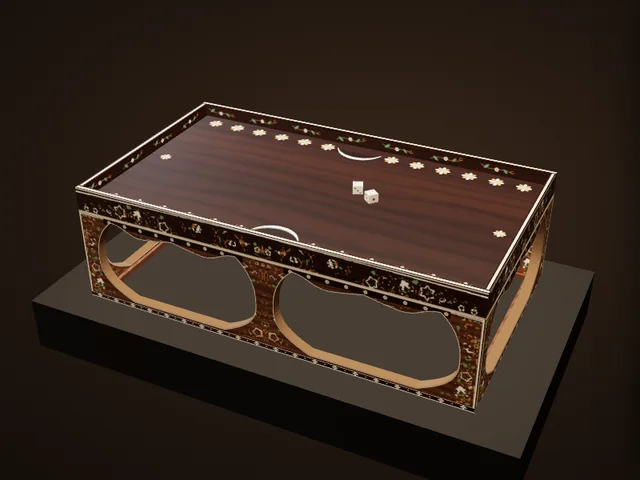
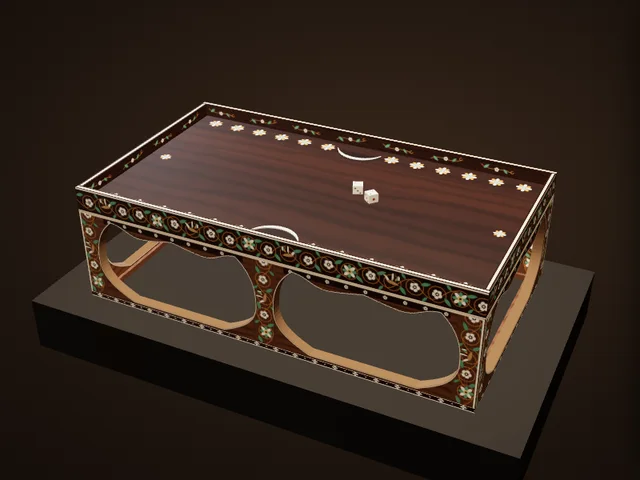
博物館：双六局の木画を描画（ベクター）に戻す（写真からの抜き出しは掠れるため不採用）
Claude-Session: https://claude.ai/code/session_01EiWRAZTxRF5M5nk5vdR2jJ

Changed region(s): [[0.125, 0.375, 0.7812, 0.8438], [0.7812, 0.4375, 0.8438, 0.5938], [0.8438, 0.375, 0.875, 0.4375]]

diff --git a/atlas/museum/ex/sugoroku.js b/atlas/museum/ex/sugoroku.js
@@ -11,11 +11,7 @@
    included), base 12.5, rail .8. Two ivory dice (双六頭, kept apart as North 17) are set on the board for reference. */
 (function () {
   'use strict';
-  // the marquetry's layout, taken off the Shōsōin's frontal photographs of a long and a short side (CO0000011755 / 11757): red = the thin
-  // stems, green = the green-dyed leaves, blue = ivory. Rows: long band (2048×128), short band (1168×128), long stand (2048×512), short stand (1168×512).
-  const HERE = (document.currentScript && document.currentScript.src) || location.href; let INL = null;
   (window.AtlasEx = window.AtlasEx || {}).sugoroku = {
-    ready: () => new Promise(res => { const im = new Image(); im.onload = () => { INL = im; res(); }; im.onerror = () => res(); im.src = new URL('../../../images/atlas/ex/sugoroku-inlay.webp', HERE).href; setTimeout(res, 8000); }),
     build(TT, X, K) {
       const G = new TT.Group();
       const L = 54.3, W = 31.0, H = 16.7, RAIL = .8, BASE = 13.3, LIN = .9, EDGE = H - BASE, RIM = 1.9, RT = .7;   // (RIM: the wall round the field stands upright, about 1.9 high — the overall photograph)   // LIN: the strip of rosettes at the top of the base
@@ -57,9 +53,7 @@
         }
         if (opt.edge) { g.fillStyle = C.iv; g.fillRect(0, 0, w, s * .18); g.fillRect(0, h - s * .18, w, s * .18); }
       };
-      let inlC = null; if (INL) { inlC = document.createElement('canvas'); inlC.width = INL.width; inlC.height = INL.height; const q = inlC.getContext('2d'); q.drawImage(INL, 0, 0); const im = q.getImageData(0, 0, inlC.width, inlC.height), d = im.data;
-        for (let i = 0; i < d.length; i += 4) { const st = d[i] / 255, gn = d[i + 1] / 255, iv = d[i + 2] / 255; let c = [201, 138, 60]; if (gn > st && gn > iv) c = [118, 146, 88]; else if (iv >= st) c = [236, 226, 204]; d[i] = c[0]; d[i + 1] = c[1]; d[i + 2] = c[2]; } q.putImageData(im, 0, 0); }
-      const inlay = (g, long, stand, x, y, w2, h2) => { const sw = long ? 2048 : 1168, sy = stand ? (long ? 256 : 768) : (long ? 0 : 128), sh = stand ? 512 : 128; g.save(); g.shadowColor = 'rgba(14,6,3,.8)'; g.shadowBlur = 1.5; g.drawImage(inlC, 0, sy, sw, sh, x, y, w2, h2); g.restore(); };
+      const inlC = null;   // (2026-11-22: a layout lifted from the frontal photographs was tried and dropped — at their resolution it came out broken and scratchy; the marquetry is drawn)
       const mk = (t, base) => K.mat({ map: t, color: '#ffffff', roughness: .48, clearcoat: .3, clearcoatRoughness: .35 });
       /* ---------- the face ---------- */
       const IL = L - RT * 2, IW = W - RT * 2, ROW = 2.0, P0 = 4.9, PS = 3.75;   // the row of points: its distance from the rim, the first point's distance from the centre, the pitch
@@ -83,7 +77,7 @@
       const add = (geo, m, x, y, z) => { const o = new TT.Mesh(geo, m); o.position.set(x, y, z); o.castShadow = o.receiveShadow = true; G.add(o); return o; };
 
       /* ---------- the board's edge (the slab with its rim, one band of marquetry outside) ---------- */
-      const edgeTex = (len, seed) => { const s = 2048 / len; return K.tex(2048, Math.round(EDGE * s), (g, w, h) => { if (!inlC) return scroll(g, w, h, s, seed, shT, { edge: true, per: 5.2 }); g.drawImage(shT.image, 0, 0, w, h); inlay(g, len > 40, false, 0, 0, w, h); g.fillStyle = C.iv; g.fillRect(0, 0, w, s * .14); g.fillRect(0, h - s * .14, w, s * .14); }); };
+      const edgeTex = (len, seed) => { const s = 2048 / len; return K.tex(2048, Math.round(EDGE * s), (g, w, h) => { if (!inlC) return scroll(g, w, h, s, seed, shT, { edge: true, per: 5.2 }); g.drawImage(shT.image, 0, 0, w, h);  g.fillStyle = C.iv; g.fillRect(0, 0, w, s * .14); g.fillRect(0, h - s * .14, w, s * .14); }); };
       const eL = mk(edgeTex(L, 1)), eW = mk(edgeTex(W, 2));
       const SL = EDGE - RIM;   // the slab; the face is at BASE + SL
       // the half-moons: a raised ivory arc in the middle of each long side, its horns toward the rim, the hollow facing the players' edge
@@ -133,7 +127,7 @@
         const LEG = 2.3, POST = 2.5, nO = S.holes.length, ow = (len - 2 * LEG - (nO - 1) * POST) / nO, cols = [LEG * .55, len - LEG * .55];
         for (let i = 1; i < nO; i++) cols.push(LEG + i * ow + (i - .5) * POST);
         const vs = K.tex(512, Math.round(512 * 3.4 / SK), (g2, w2, h2) => scroll(g2, w2, h2, w2 / SK, seed, baseT, { per: 5.2 }));
-        if (inlC) inlay(g, len > 40, true, 0, 0, w, h); else cols.forEach(cxm => { g.save(); g.translate(cxm * s, h); g.rotate(-Math.PI / 2); g.globalAlpha = 1; g.drawImage(vs.image, 0, -s * 1.7, h, s * 3.4); g.restore(); });
+        cols.forEach(cxm => { g.save(); g.translate(cxm * s, h); g.rotate(-Math.PI / 2); g.globalAlpha = 1; g.drawImage(vs.image, 0, -s * 1.7, h, s * 3.4); g.restore(); });
         // across the top, between the openings and the edge, a running scroll
         // the strip of rosettes along the top
         g.fillStyle = C.iv; g.fillRect(0, 0, w, s * .14);

diff --git a/atlas/museum.js b/atlas/museum.js
@@ -32,7 +32,7 @@
   const ROOMS = [
     { id: 'map', ready: () => !!window.AtlasMap, render: (el, c) => AtlasMap.render(el, c) },
     { id: 'tree', src: ['museum/tree.js?v=3'], ready: () => !!window.AtlasTree, render: (el, c) => AtlasTree.render(el, c) },
-    { id: 'gallery', src: ['museum/gallery.js?v=68'], ready: () => !!window.AtlasGallery, render: (el, c) => AtlasGallery.render(el, c) },
+    { id: 'gallery', src: ['museum/gallery.js?v=69'], ready: () => !!window.AtlasGallery, render: (el, c) => AtlasGallery.render(el, c) },
   ];
   const KEY = 'atlas-museum-room';
   const esc = s => String(s == null ? '' : s).replace(/[&<>"]/g, c => ({ '&': '&amp;', '<': '&lt;', '>': '&gt;', '"': '&quot;' }[c]));

diff --git a/atlas/index.html b/atlas/index.html
@@ -2559,7 +2559,7 @@ window.AtlasRgdTimer = function (btn, ms, alive) {
 <link rel="stylesheet" href="worldmap.css?v=19">
 <link rel="stylesheet" href="museum.css?v=4">
 <script src="worldmap.js?v=40"></script>
-<script src="museum.js?v=69"></script>
+<script src="museum.js?v=70"></script>
 <script src="npc/npc.js?v=46"></script>
 <script src="avtalk.js?v=4"></script>
 <script>/* Page states as classes on <html> (2026-11-21) — html.cov-on: the 3D view / Historia / a sheet / a level sheet is open;

diff --git a/atlas/museum/gallery.js b/atlas/museum/gallery.js
@@ -10,7 +10,7 @@
    (a turn, a zoom, the slow turntable) and never while the window is in the background. */
 (function () {
   'use strict';
-  const V = 68;
+  const V = 69;
   /* ---------- the pieces: id, the game it belongs to, its scale (cm per model unit), the camera's start, the details ----------
      lock: { game, ach } → open after that many achievements of the game. src: the files the piece needs (besides ex/<id>.js) */
   const EX = [

diff --git a/claude/museum-spec.md b/claude/museum-spec.md
@@ -86,7 +86,7 @@
   - **回転体のテクスチャ**：一周する絵は左右の端がつながるように作る（継ぎ目が線に見える）。頂点（絵の上端）では模様を弱める（放射状のしわになる）。丸い手作りの物を少ない分割の多角形で作らない（カクカクに見える）。
   - オスマン盤の象牙の細線：写真から抜き出さず、区画ごとに尖りの間隔を測って（約138px＝3.8cm）、尖りの間の帯の両脇に真っすぐ引く。蝶番の列は菱形の貝だけ残す。
   - 木画紫檀棊局の側面の図柄：手描きの影絵をやめ、正倉院の細部写真428〜436から16区画の図の輪郭と染め色の位置を抜き出した配置図（images/atlas/ex/shosoin-figures.webp、4行＝A・C・B・D面、各4区画）を使う。区画の位置は写真上の座標を目で読んで指定（tools ではなく /tmp の作業スクリプト。再生成時は museum-spec のこの項を参照）。線彫りは未再現。
-  - 木画紫檀双六局（2026-11-22、正倉院の正面写真 CO0000011755＝長辺・11757＝短辺に合わせ直し）：床脚は胴より明るい茶色（先に「濃い紫檀」に変えたのは誤り）。開口部は脚が中ほどで最も細く（約2.3cm）、足元へ大きく・上へ小さく広がる砂時計形、上辺の桟から2つの長い垂れと中央の小さな山。木画は正面写真から抜き出した配置図（images/atlas/ex/sugoroku-inlay.webp：茎・緑の葉・象牙）を帯と床脚に貼る（長辺は左半分を鏡映）。開口部の切り口は押し出しの側面材そのものを淡い木色に（別の帯を重ねると同一平面でちらつく）。
+  - 木画紫檀双六局（2026-11-22、正倉院の正面写真 CO0000011755＝長辺・11757＝短辺に合わせ直し）：床脚は胴より明るい茶色（先に「濃い紫檀」に変えたのは誤り）。開口部は脚が中ほどで最も細く（約2.3cm）、足元へ大きく・上へ小さく広がる砂時計形、上辺の桟から2つの長い垂れと中央の小さな山。木画は描画（ベクター）で行う。正面写真から配置図を抜き出す方法は、写真の解像度が足りず掠れて見えるので不採用（2026-11-22 ユーザー指摘）。抜き出しは、1区画が大きく写った細部写真があるときだけ使う。開口部の切り口は押し出しの側面材そのものを淡い木色に（別の帯を重ねると同一平面でちらつく）。
   - **スマホのテクスチャ上限**：スマホ（幅820px未満）では、読み込み時に長辺1536pxを超えるテクスチャを1536pxに縮める（gallery.js の small()。2048²は1枚22MB）。
   - **同じ平面に面を重ねない／透かしはアルファ・トゥ・カバレッジ**：隣り合う部品の面が同じ平面にあると遠目でちらつく（双六局の隅の脚。片方を少し短くする）。alphaTest の透かし（ダイスタワー）は `alphaToCoverage: true` を付けて縁を滑らかにする。
   - **重さの基準**：三角形は展示1点 8万以下（`atlas/tools/exrender.html` が `window.stats` に三角形数・メッシュ数・テクスチャの枚数とメモリを出す）。
